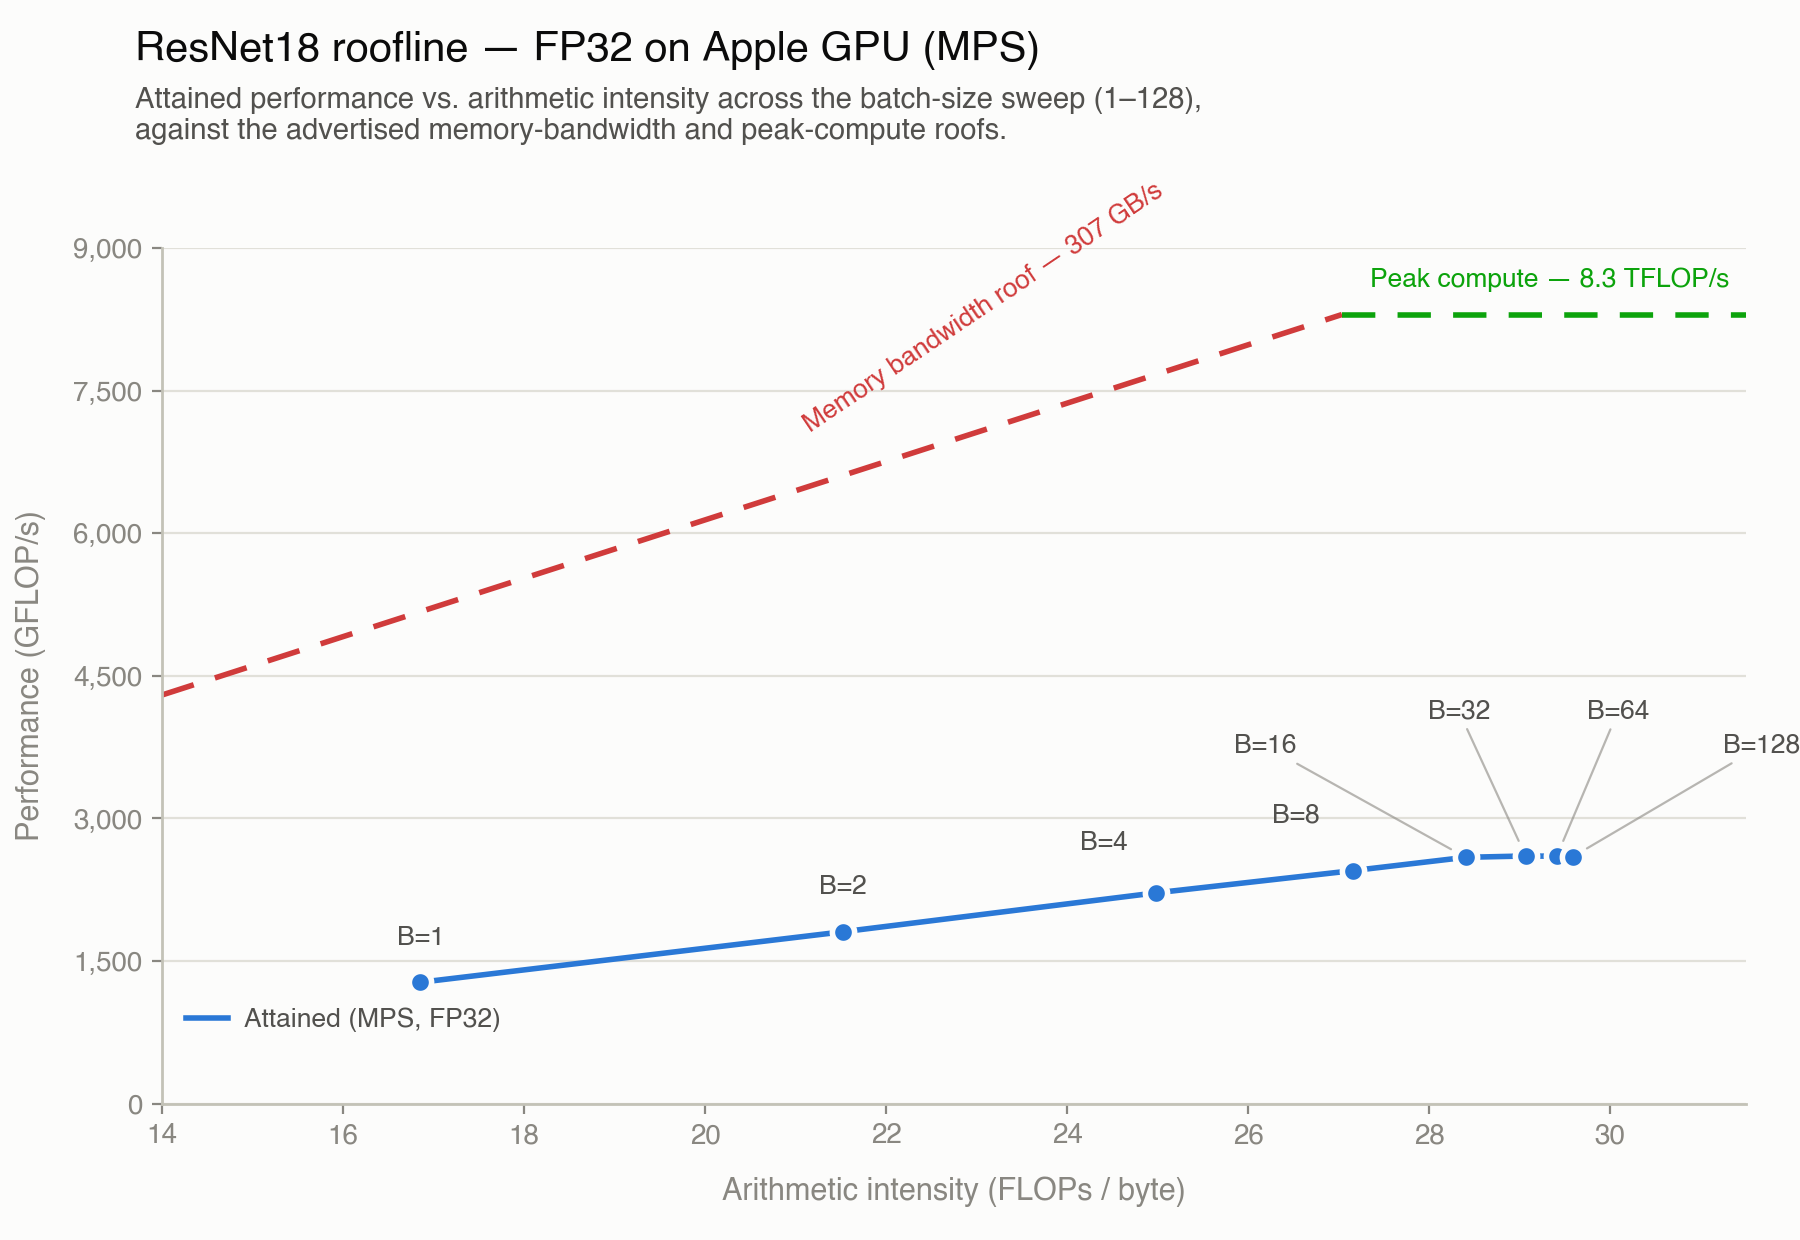
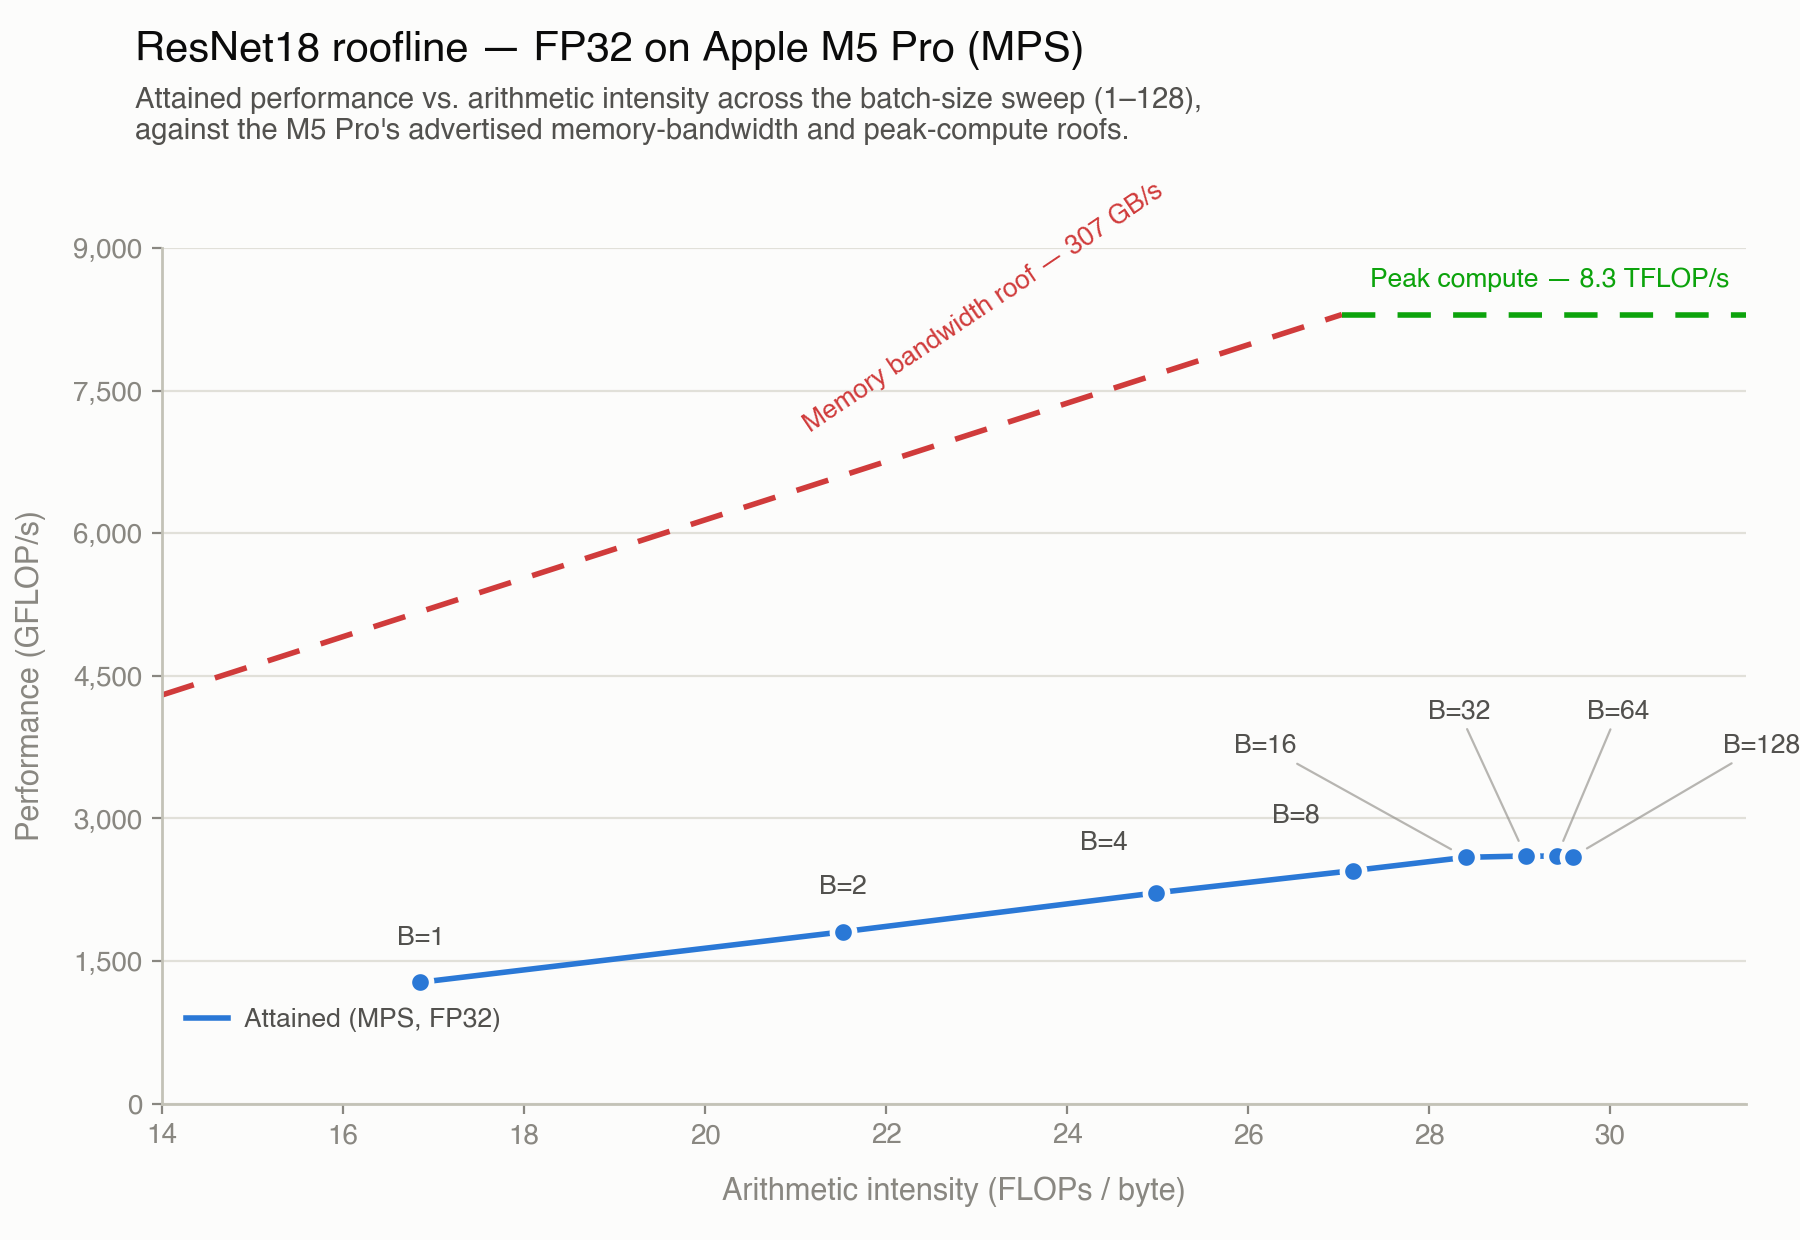
Note Apple M5 Pro as the source of the roofline's bandwidth/compute specs

Changed region(s): [[0.1556, 0.0919, 0.6222, 0.1226], [0.4356, 0.0, 0.5911, 0.0613]]

diff --git a/README.md b/README.md
@@ -1,7 +1,7 @@
 # workload-characterization
 
 Profiling utilities for characterizing model inference workloads on-device
-(currently ResNet18 on Apple Silicon MPS, with an fp32/int8 precision comparison).
+(currently ResNet18 on an Apple M5 Pro's GPU via MPS, with an fp32/int8 precision comparison).
 
 ## Layout
 
@@ -149,9 +149,11 @@ rigorous benchmark.)
 fvcore's `FlopCountAnalysis` (`--mode ai`) gives a per-layer, device-independent
 count of FLOPs and bytes moved, from which we can compute **arithmetic
 intensity** (FLOPs/byte) and plot it against **attained performance**
-(FLOPs/s, measured on MPS) — a roofline view of where this workload sits
-relative to the hardware's advertised limits (307 GB/s memory bandwidth,
-8.3 TFLOP/s peak compute; ridge point at AI ≈ 27.04 ops/byte, i.e. 8,300 ÷ 307).
+(FLOPs/s, measured on the Apple M5 Pro's GPU via MPS) — a roofline view of
+where this workload sits relative to the chip's advertised limits: 307 GB/s
+memory bandwidth and 8.3 TFLOP/s (FP32) peak compute, both from Apple's
+published M5 Pro specs. Ridge point (where the two roofs meet) sits at
+AI ≈ 27.04 ops/byte, i.e. 8,300 ÷ 307.
 
 | Batch | AI (ops/byte) | Attained (GFLOP/s) | Region |
 |------:|---------------:|--------------------:|--------|
